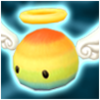
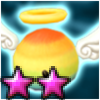
Added giant / dragon

Changed region(s): [[0.0, 0.66, 0.72, 1.0]]

diff --git a/db_install.php b/db_install.php
@@ -73,6 +73,8 @@ array_push($req_array_content,"INSERT INTO t_hall VALUES(NULL,'Hall of Fire','fi
 array_push($req_array_content,"INSERT INTO t_hall VALUES(NULL,'Hall of Wind','wind')");
 array_push($req_array_content,"INSERT INTO t_hall VALUES(NULL,'Hall of Water','water')");
 array_push($req_array_content,"INSERT INTO t_hall VALUES(NULL,'Hall of Magic','magic')");
+array_push($req_array_content,"INSERT INTO t_hall VALUES(NULL,'Giant\'s Keep','giant')");
+array_push($req_array_content,"INSERT INTO t_hall VALUES(NULL,'Dragon\'s Lair','dragon')");
 
 array_push($req_array_content,"INSERT INTO t_floor VALUES(NULL,1)");
 array_push($req_array_content,"INSERT INTO t_floor VALUES(NULL,2)");
@@ -110,10 +112,27 @@ array_push($req_array_content,"INSERT INTO t_drop VALUES(NULL,'Unknown scroll','
 array_push($req_array_content,"INSERT INTO t_drop VALUES(NULL,'Mystical scroll','scroll_m',1,1)");
 array_push($req_array_content,"INSERT INTO t_drop VALUES(NULL,'Secret dungeon','secret_d',1,1)");
 array_push($req_array_content,"INSERT INTO t_drop VALUES(NULL,'Summoning stone','stone',1,5)");
+//runes
+array_push($req_array_content,"INSERT INTO t_drop VALUES(NULL,'Blade rune','blade',1,1)");
+array_push($req_array_content,"INSERT INTO t_drop VALUES(NULL,'Despair rune','despair',1,1)");
+array_push($req_array_content,"INSERT INTO t_drop VALUES(NULL,'Endure rune','endure',1,1)");
+array_push($req_array_content,"INSERT INTO t_drop VALUES(NULL,'Energy rune','energy',1,1)");
+array_push($req_array_content,"INSERT INTO t_drop VALUES(NULL,'Fatal rune','fatal',1,1)");
+array_push($req_array_content,"INSERT INTO t_drop VALUES(NULL,'Focus rune','focus',1,1)");
+array_push($req_array_content,"INSERT INTO t_drop VALUES(NULL,'Guard rune','guard',1,1)");
+array_push($req_array_content,"INSERT INTO t_drop VALUES(NULL,'Nemesis rune','nemesis',1,1)");
+array_push($req_array_content,"INSERT INTO t_drop VALUES(NULL,'Rage rune','rage',1,1)");
+array_push($req_array_content,"INSERT INTO t_drop VALUES(NULL,'Revenge rune','revenge',1,1)");
+array_push($req_array_content,"INSERT INTO t_drop VALUES(NULL,'Shield rune','shield',1,1)");
+array_push($req_array_content,"INSERT INTO t_drop VALUES(NULL,'Swift rune','swift',1,1)");
+array_push($req_array_content,"INSERT INTO t_drop VALUES(NULL,'Vampire rune','vampire',1,1)");
+array_push($req_array_content,"INSERT INTO t_drop VALUES(NULL,'Violent rune','violent',1,1)");
+array_push($req_array_content,"INSERT INTO t_drop VALUES(NULL,'Will rune','will',1,1)");
 
 //Drop table
 array_push($req_array_content,"INSERT INTO t_hall_drop VALUES(NULL,'light','angelmon')");
 array_push($req_array_content,"INSERT INTO t_hall_drop VALUES(NULL,'light','rainbowmon2')");
+array_push($req_array_content,"INSERT INTO t_hall_drop VALUES(NULL,'light','rainbowmon3')");
 array_push($req_array_content,"INSERT INTO t_hall_drop VALUES(NULL,'light','light_low')");
 array_push($req_array_content,"INSERT INTO t_hall_drop VALUES(NULL,'light','light_mid')");
 array_push($req_array_content,"INSERT INTO t_hall_drop VALUES(NULL,'light','light_high')");
@@ -124,6 +143,7 @@ array_push($req_array_content,"INSERT INTO t_hall_drop VALUES(NULL,'light','ston
 
 array_push($req_array_content,"INSERT INTO t_hall_drop VALUES(NULL,'dark','angelmon')");
 array_push($req_array_content,"INSERT INTO t_hall_drop VALUES(NULL,'dark','rainbowmon2')");
+array_push($req_array_content,"INSERT INTO t_hall_drop VALUES(NULL,'dark','rainbowmon3')");
 array_push($req_array_content,"INSERT INTO t_hall_drop VALUES(NULL,'dark','dark_low')");
 array_push($req_array_content,"INSERT INTO t_hall_drop VALUES(NULL,'dark','dark_mid')");
 array_push($req_array_content,"INSERT INTO t_hall_drop VALUES(NULL,'dark','dark_high')");
@@ -134,6 +154,7 @@ array_push($req_array_content,"INSERT INTO t_hall_drop VALUES(NULL,'dark','stone
 
 array_push($req_array_content,"INSERT INTO t_hall_drop VALUES(NULL,'fire','angelmon')");
 array_push($req_array_content,"INSERT INTO t_hall_drop VALUES(NULL,'fire','rainbowmon2')");
+array_push($req_array_content,"INSERT INTO t_hall_drop VALUES(NULL,'fire','rainbowmon3')");
 array_push($req_array_content,"INSERT INTO t_hall_drop VALUES(NULL,'fire','fire_low')");
 array_push($req_array_content,"INSERT INTO t_hall_drop VALUES(NULL,'fire','fire_mid')");
 array_push($req_array_content,"INSERT INTO t_hall_drop VALUES(NULL,'fire','fire_high')");
@@ -144,6 +165,7 @@ array_push($req_array_content,"INSERT INTO t_hall_drop VALUES(NULL,'fire','stone
 
 array_push($req_array_content,"INSERT INTO t_hall_drop VALUES(NULL,'water','angelmon')");
 array_push($req_array_content,"INSERT INTO t_hall_drop VALUES(NULL,'water','rainbowmon2')");
+array_push($req_array_content,"INSERT INTO t_hall_drop VALUES(NULL,'water','rainbowmon3')");
 array_push($req_array_content,"INSERT INTO t_hall_drop VALUES(NULL,'water','water_low')");
 array_push($req_array_content,"INSERT INTO t_hall_drop VALUES(NULL,'water','water_mid')");
 array_push($req_array_content,"INSERT INTO t_hall_drop VALUES(NULL,'water','water_high')");
@@ -154,6 +176,7 @@ array_push($req_array_content,"INSERT INTO t_hall_drop VALUES(NULL,'water','ston
 
 array_push($req_array_content,"INSERT INTO t_hall_drop VALUES(NULL,'wind','angelmon')");
 array_push($req_array_content,"INSERT INTO t_hall_drop VALUES(NULL,'wind','rainbowmon2')");
+array_push($req_array_content,"INSERT INTO t_hall_drop VALUES(NULL,'wind','rainbowmon3')");
 array_push($req_array_content,"INSERT INTO t_hall_drop VALUES(NULL,'wind','wind_low')");
 array_push($req_array_content,"INSERT INTO t_hall_drop VALUES(NULL,'wind','wind_mid')");
 array_push($req_array_content,"INSERT INTO t_hall_drop VALUES(NULL,'wind','wind_high')");
@@ -163,6 +186,7 @@ array_push($req_array_content,"INSERT INTO t_hall_drop VALUES(NULL,'wind','secre
 array_push($req_array_content,"INSERT INTO t_hall_drop VALUES(NULL,'wind','stone')");
 
 array_push($req_array_content,"INSERT INTO t_hall_drop VALUES(NULL,'magic','rainbowmon2')");
+array_push($req_array_content,"INSERT INTO t_hall_drop VALUES(NULL,'magic','rainbowmon3')");
 array_push($req_array_content,"INSERT INTO t_hall_drop VALUES(NULL,'magic','scroll')");
 array_push($req_array_content,"INSERT INTO t_hall_drop VALUES(NULL,'magic','scroll_m')");
 array_push($req_array_content,"INSERT INTO t_hall_drop VALUES(NULL,'magic','magic_low')");
@@ -184,6 +208,35 @@ array_push($req_array_content,"INSERT INTO t_hall_drop VALUES(NULL,'magic','wind
 array_push($req_array_content,"INSERT INTO t_hall_drop VALUES(NULL,'magic','wind_mid')");
 array_push($req_array_content,"INSERT INTO t_hall_drop VALUES(NULL,'magic','wind_high')");
 array_push($req_array_content,"INSERT INTO t_hall_drop VALUES(NULL,'magic','stone')");
+
+array_push($req_array_content,"INSERT INTO t_hall_drop VALUES(NULL,'giant','rainbowmon2')");
+array_push($req_array_content,"INSERT INTO t_hall_drop VALUES(NULL,'giant','rainbowmon3')");
+array_push($req_array_content,"INSERT INTO t_hall_drop VALUES(NULL,'giant','scroll')");
+array_push($req_array_content,"INSERT INTO t_hall_drop VALUES(NULL,'giant','scroll_m')");
+array_push($req_array_content,"INSERT INTO t_hall_drop VALUES(NULL,'giant','despair')");
+array_push($req_array_content,"INSERT INTO t_hall_drop VALUES(NULL,'giant','energy')");
+array_push($req_array_content,"INSERT INTO t_hall_drop VALUES(NULL,'giant','fatal')");
+array_push($req_array_content,"INSERT INTO t_hall_drop VALUES(NULL,'giant','blade')");
+array_push($req_array_content,"INSERT INTO t_hall_drop VALUES(NULL,'giant','rage')");
+array_push($req_array_content,"INSERT INTO t_hall_drop VALUES(NULL,'giant','swift')");
+array_push($req_array_content,"INSERT INTO t_hall_drop VALUES(NULL,'giant','focus')");
+array_push($req_array_content,"INSERT INTO t_hall_drop VALUES(NULL,'giant','stone')");
+
+array_push($req_array_content,"INSERT INTO t_hall_drop VALUES(NULL,'dragon','rainbowmon2')");
+array_push($req_array_content,"INSERT INTO t_hall_drop VALUES(NULL,'dragon','rainbowmon3')");
+array_push($req_array_content,"INSERT INTO t_hall_drop VALUES(NULL,'dragon','scroll')");
+array_push($req_array_content,"INSERT INTO t_hall_drop VALUES(NULL,'dragon','scroll_m')");
+array_push($req_array_content,"INSERT INTO t_hall_drop VALUES(NULL,'dragon','vampire')");
+array_push($req_array_content,"INSERT INTO t_hall_drop VALUES(NULL,'dragon','endure')");
+array_push($req_array_content,"INSERT INTO t_hall_drop VALUES(NULL,'dragon','violent')");
+array_push($req_array_content,"INSERT INTO t_hall_drop VALUES(NULL,'dragon','guard')");
+array_push($req_array_content,"INSERT INTO t_hall_drop VALUES(NULL,'dragon','will')");
+array_push($req_array_content,"INSERT INTO t_hall_drop VALUES(NULL,'dragon','nemesis')");
+array_push($req_array_content,"INSERT INTO t_hall_drop VALUES(NULL,'dragon','shield')");
+array_push($req_array_content,"INSERT INTO t_hall_drop VALUES(NULL,'dragon','revenge')");
+array_push($req_array_content,"INSERT INTO t_hall_drop VALUES(NULL,'dragon','stone')");
+
+
 
 //Connect
 include 'db_connect.php';
